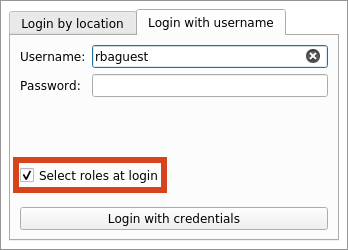
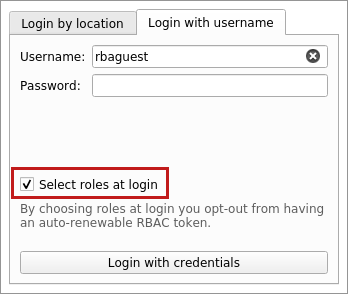
Update RBAC docs

diff --git a/docs/conf.py b/docs/conf.py
@@ -616,6 +616,7 @@ intersphinx_mapping = {
     'numpy': (f'https://numpy.org/doc/{minor_ver(versions.np)}/', None),
     'pyqtgraph': ('https://pyqtgraph.readthedocs.io/en/latest/', None),  # TODO: Change latest to concrete version of pyqtgraph after migrating to 0.11 (cant do right now, as versions there start from 0.11.0
     'pyjapc': (f'https://acc-py.web.cern.ch/gitlab/scripting-tools/pyjapc/docs/v{versions.pyjapc}/', None),
+    'pyrbac': (f'https://acc-py.web.cern.ch/gitlab-mono/acc-co/cmw/cmw-core/docs/pyrbac/master/', None),
     'accwidgets': (f'https://acc-py.web.cern.ch/gitlab/acc-co/accsoft/gui/accsoft-gui-pyqt-widgets/docs/v{versions.widgets}/', None),
 }
 

diff --git a/docs/basic/rbac.rst b/docs/basic/rbac.rst
@@ -14,11 +14,7 @@ the production RBAC service. If you are willing to switch to an alternative serv
   * `User roles`_
 
 - `RBAC Token`_
-- `Public key`_
-
-.. note:: Current RBAC implementation in ComRAD is a mix between C++-based PyRBAC and Java-based RBAC libraries. The
-          intention is to gradually migrate functionality from Java to C++, but this transition period may impose
-          limitations.
+- `Application name`_
 
 Authentication
 --------------
@@ -28,8 +24,7 @@ Currently we support the following means of authentication:
 - By location
 - With username and password
 
-.. note:: Kerberos authentication is not supported yet. It will be added when PyRBAC library
-          receives Kerberos support.
+.. note:: Kerberos is not supported, as it is not available in :mod:`pyrbac`.
 
 Authentication during startup
 ^^^^^^^^^^^^^^^^^^^^^^^^^^^^^
@@ -37,8 +32,9 @@ Authentication during startup
 During the startup, a ComRAD application will try to authenticate by location. In case of success, user will be
 logged in by the time UI renders. In case of failure, user will remain not authenticated.
 
-.. todo:: Authentication by location on startup is the default behavior currently and can't be changed. We can make
-          it configurable in the future, if there's a demand for it.
+If ``--rbac-token`` command line argument was supplied during launch, this token will be parsed and used instead of
+default location login policy. This command line argument is also propagated into subprocesses (e.g. when opening
+new windows using :class:`~comrad.CRelatedDisplayButton`, so that authentication is preserved).
 
 Authentication in UI
 ^^^^^^^^^^^^^^^^^^^^
@@ -64,10 +60,6 @@ e.g.
      --disable-plugins comrad.rbac \
      /path/to/my/app.ui
 
-.. note:: In the future, we may consider embedding this information into the application file, so that certain
-          applications will hide the bar item by default.
-
-
 When authenticating, by default all available non-critical (non-MCS) roles will be assigned to the user. You can opt-in
 to alter the roles during login, or change it afterwards via a dialog, as explained in `User roles`_. To alter roles
 at login, tick the checkbox "Select roles at login".
@@ -81,9 +73,17 @@ at login, tick the checkbox "Select roles at login".
 It will interactively ask to select roles using the dialog similar to :ref:`role_picker` before
 finishing the authentication sequence.
 
+.. note:: By default, tokens are automatically renewed before they expire. However, when selecting specific roles,
+          auto-renewal feature is disabled. This also applies to cases when initially auto-renewable token was received,
+          but then another token was generated by selecting roles, as explained in `User roles`_.
+
 
 Authorization
 -------------
+
+Authorization refers to permissions for certain actions of an authenticated user. Normally, RBAC permissions for
+concrete actions are configured on the FESA/LSA side. User may configure roles that will present a different set
+of permissions within a scope of given authenticated session.
 
 Any authorization error produced by the control system will get logged in the command line output of the ComRAD
 application. In addition, the errors produced on SET operation (which applies to both sending a value to the device
@@ -101,9 +101,6 @@ User roles
 
 During authentication, user receives a default set of non-critical roles. These can be changed by clicking on the
 username in the navigation bar, and selecting menu "Select Roles".
-
-.. note:: This functionality is unavailable after automatic authentication on startup and needs manual
-          login by the user.
 
 Presented dialog displays all available roles, including critical roles
 (`MCS - "Management of Critical Settings" <https://wikis.cern.ch/display/LSA/MCS>`__) that are colored in red.
@@ -133,11 +130,10 @@ RBAC Token
 RBAC token can be reviewed for an authenticated user by clicking on the username in the navigation bar, and selecting
 menu "Show Existing RBAC Token".
 
-.. note:: This functionality is unavailable after automatic authentication on startup and needs manual
-          login by the user.
-
 It presents all relevant information similarly to Java applications, omitting some parts that are specific to Java APIs,
 e.g. "Context".
+
+.. _token_dialog:
 
 .. figure:: ../img/token_info.png
    :align: center
@@ -145,17 +141,17 @@ e.g. "Context".
 
    Example of the Token details dialog
 
+.. figure:: ../img/token_info_invalid.png
+   :align: center
+   :alt: Example of the expired Token details
 
-Public key
-----------
+   Example of the expired Token details
 
-PyRBAC will locate and verify a public key on its first usage (e.g. when user tries to login for the first time).
-Normally, this key would be located in NFS, e.g. ``/user/rbac/pkey/rba-pub.txt``. For situations when ComRAD is used in
-the environment without access to aforementioned NFS folder, it will attempt to use a bundled key, which is a copy
-made during the build.
 
-If you wish to supply an alternative public key, you can do so by setting environment variable ``RBAC_PKEY`` to the
-location of your own public key file before running ComRAD.
+Application name
+----------------
 
-.. note:: Public keys are specific to environments, so if you are using a non-production
-          :doc:`CMW environment <../advanced/cmw>`, you will need to supply a different key as well.
+When contacting RBAC servers, the library provides the information about the client. By default, :mod:`pyrbac` will
+set the application name to executable name, e.g. ``comrad``. This can be changed by defining ``RBAC_APPLICATION_NAME``
+variable. The application name is reflected in the authenticated token and can be found in
+:ref:`token details dialog <token_dialog>`.

diff --git a/docs/api/rbac/module.rst b/docs/api/rbac/module.rst
@@ -1,5 +1,20 @@
 RBAC
 =====================
 
-.. automodule:: comrad.rbac.rbac
+.. autoclass:: comrad.rbac.CRbaState
+    :undoc-members:
+    :members:
+
+.. autoclass:: comrad.rbac.CRbaRole
+    :members:
+
+.. autoclass:: comrad.rbac.CRbaToken
+    :members:
+
+.. autoclass:: comrad.rbac.CRbaLoginStatus
+    :undoc-members:
+    :members:
+
+.. autoclass:: comrad.rbac.CRbaStartupLoginPolicy
+    :undoc-members:
     :members:
